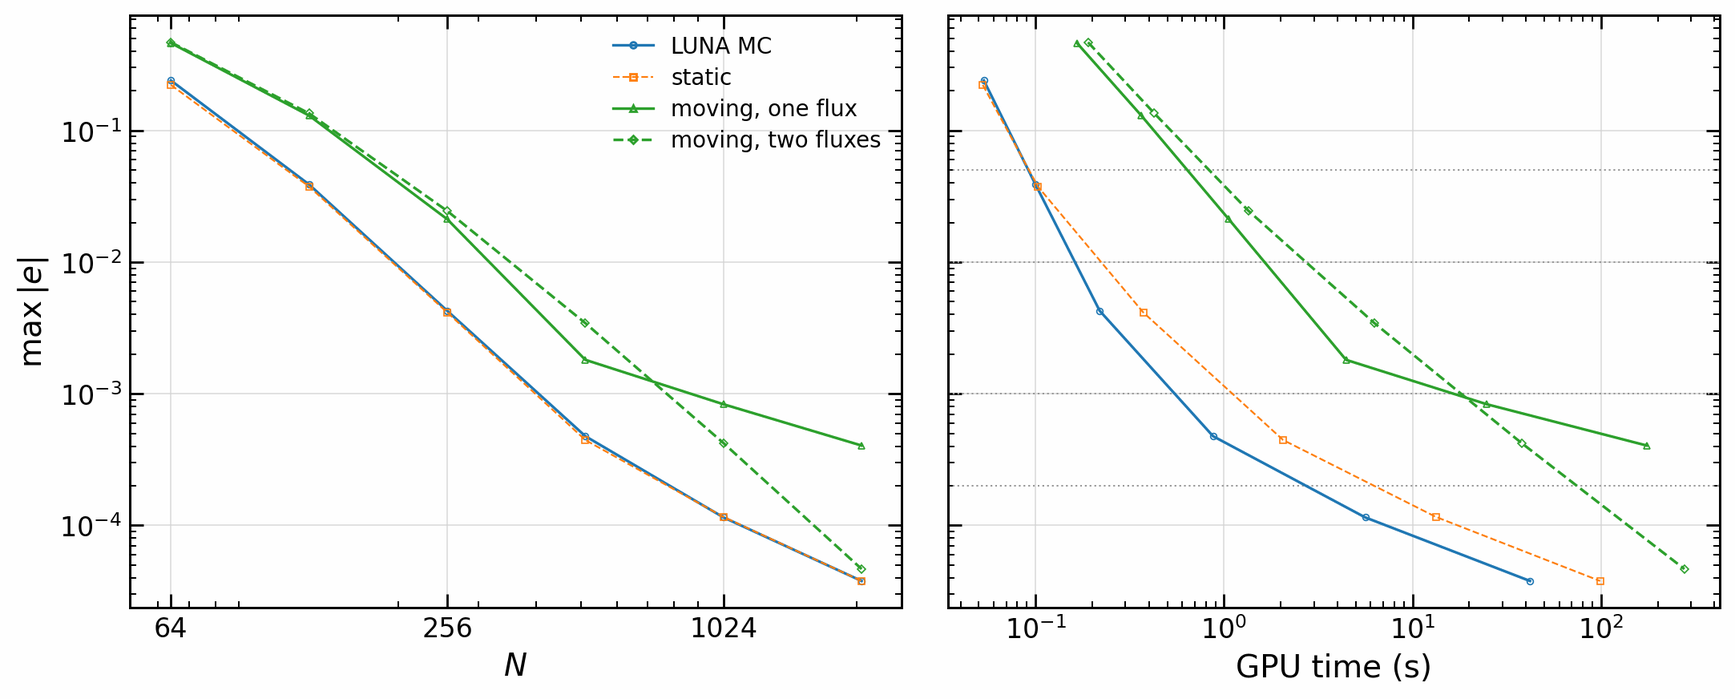
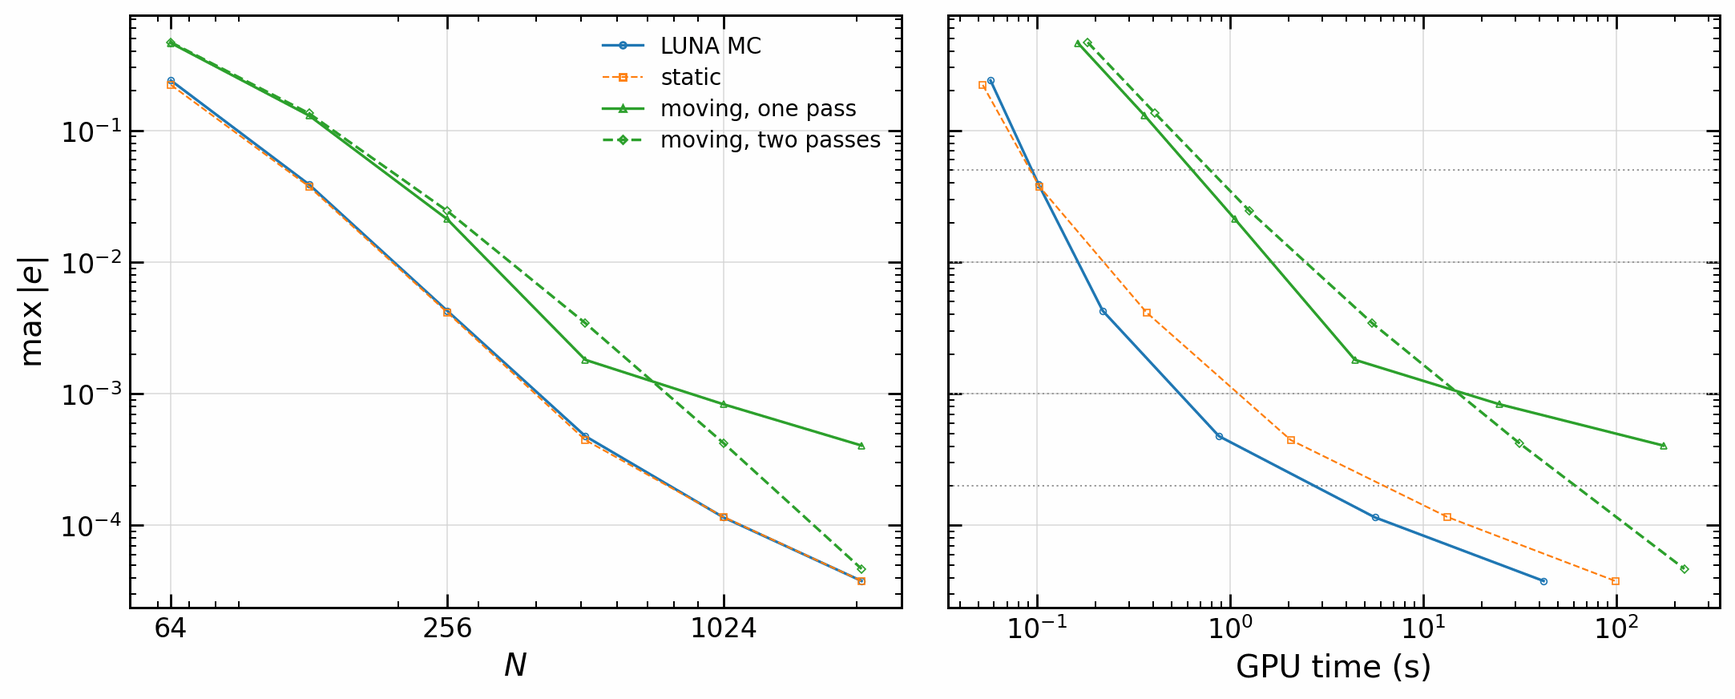
KH density figure against LUNA, the rerun on two passes; README up to date, roadmap, powers as superscripts

diff --git a/scripts/make_figures.py b/scripts/make_figures.py
@@ -6,6 +6,7 @@ Run with LUNA's environment: LUNA's src on PYTHONPATH (exact Riemann and Sedov-T
 Data paths, each an environment variable, none of them in this repository:
 
     VORONOI_RUNS               voronoi-cpp checkout with the build-* run directories
+    KH_TABLE, KH_FIELDS        the KH table and the density fields, default under VORONOI_RUNS
     LUNA_REFERENCE_SOLUTIONS   luna-reference-solutions at 99a52d0 (sha256 checked against its MANIFEST.json)
     LUNA_CPP_FIGURES           output directory, default docs/figures next to this script's parent
 
@@ -29,6 +30,7 @@ import numpy as np
 from matplotlib.path import Path
 from matplotlib.patches import ConnectionPatch, Rectangle
 from PIL import Image
+from scipy.spatial import cKDTree
 
 matplotlib.use("Agg")
 import matplotlib.pyplot as plt  # noqa: E402
@@ -45,7 +47,8 @@ FINE = f"{RUNS}/build-1d/runs/refs"          # the references of the L1 table: L
 MATRIX = f"{RUNS}/build-1ddiag/runs_m/matrix.json"
 WIDE_CPU = f"{RUNS}/build-1ddiag/runs_mc"
 VORTEX_LOGS = f"{RUNS}/build-1ddiag/logs"
-KH = f"{RUNS}/build-2d/runs/kh_table.md"
+KH = os.environ.get("KH_TABLE", f"{RUNS}/build-2d/runs/kh_table.md")
+KH_FIELDS = os.environ.get("KH_FIELDS", f"{RUNS}/build-2d/runs")  # field_* of dim2d_a100.sh khfield
 SEDOV = f"{RUNS}/build-limiters/sedov"
 SEDOV_L1 = f"{RUNS}/build-limiters/sedov_l1.json"
 SEDOV_LADDER = f"{RUNS}/build-metric"
@@ -74,6 +77,8 @@ TEXTS, BOXES = [], []  # panel labels and box letters, zoom boxes, of the figure
 FAILED = []  # (figure, what) of every overlap
 WIDTH = FIGSIZE[0] * 2  # every figure
 LEGEND = dict(loc="upper right", fontsize=LABEL)
+KH_WINDOW = ((0.27, 0.57), (0.11, 0.41))  # the roll-up of the zoom panels
+DIFF = {}
 
 
 def save(fig, name):
@@ -506,8 +511,68 @@ def fig_kh():
     a.set_xlabel(r"$N$")
     a.set_ylabel(r"$\max\,|e|$")
     b.set_xlabel("GPU time (s)")
-    a.legend(handles=[key("luna", "LUNA MC", True), key("static", "static", True), key("moving", "moving, one flux", True), key("two", "moving, two fluxes", True)], **LEGEND)
+    a.legend(handles=[key("luna", "LUNA MC", True), key("static", "static", True), key("moving", "moving, one pass", True), key("two", "moving, two passes", True)], **LEGEND)
     save(fig, "kh_2d")
+
+
+def kh_field(kind, t, n, m):
+    """Density on an m x m lattice, [x, y]: LUNA's cells, or the Voronoi cells of a run by nearest generator (periodic)."""
+    if kind == "luna":
+        rho = np.load(f"{KH_FIELDS}/field_luna_t{t}_{n}.npz")["rho"]
+        return rho if rho.shape[0] == m else rho.repeat(m // rho.shape[0], 0).repeat(m // rho.shape[0], 1)
+    rows = np.fromfile(f"{KH_FIELDS}/field_{kind}_t{t}_{n}.bin").reshape(-1, 7)
+    at = (np.arange(m) + 0.5) / m
+    x, y = np.meshgrid(at, at, indexing="ij")
+    return rows[cKDTree(rows[:, :2] % 1.0, boxsize=1.0).query(np.c_[x.ravel(), y.ravel()])[1], 5].reshape(m, m)
+
+
+def fig_kh_density():
+    """Density maps at two times, one colour scale; a zoom on a roll-up; the difference from LUNA at the finest N."""
+    n, fine = 1024, 2048
+    window = KH_WINDOW
+    fig, axes = plt.subplots(3, 4, figsize=(WIDTH, WIDTH * 0.76), gridspec_kw=dict(wspace=0.05, hspace=0.07))
+    names = (("luna", "LUNA MC"), ("static", "static"), ("moving", "moving"))
+    limit = 0.0
+    panels = "abcdefghijkl"
+    for r, t in enumerate(("1.0", "1.5")):
+        ref = kh_field("luna", t, fine, fine)
+        for c, (kind, name) in enumerate(names):
+            ax = axes[r, c]
+            rho = kh_field(kind, t, n, 2 * n if kind != "luna" else n)
+            image = ax.imshow(rho.T, origin="lower", extent=(0, 1, 0, 1), cmap="viridis", vmin=1, vmax=2, interpolation="nearest")
+            corner(ax, f"({panels[4 * r + c]}) {name}, $t = {t}$", y=0.97)
+            if r == 1:
+                axes[2, c].imshow(rho.T, origin="lower", extent=(0, 1, 0, 1), cmap="viridis", vmin=1, vmax=2, interpolation="nearest")
+                axes[2, c].set_xlim(*window[0])
+                axes[2, c].set_ylim(*window[1])
+                corner(axes[2, c], f"({panels[8 + c]}) {name}", y=0.97)
+                mark(ax, window[0], window[1], "")
+                to_fig = fig.transFigure.inverted()
+                for x, side in ((window[0][0], 0), (window[0][1], 1)):
+                    fig.add_artist(ConnectionPatch(xyA=(x, window[1][0]), coordsA=ax.transData, xyB=(side, 1), coordsB=axes[2, c].transAxes,
+                                                   color=EDGE, lw=0.6, clip_on=False, zorder=10))
+                    CONNECTORS.append((to_fig.transform(ax.transData.transform((x, window[1][0]))),
+                                       to_fig.transform(axes[2, c].transAxes.transform((side, 1)))))
+        moving = kh_field("moving", t, n, fine)
+        difference = moving - ref
+        limit = max(limit, float(np.percentile(np.abs(difference), 99.9)))
+        DIFF[t] = difference
+    for r, t in enumerate(("1.0", "1.5")):
+        ax = axes[r, 3]
+        delta = ax.imshow(DIFF[t].T, origin="lower", extent=(0, 1, 0, 1), cmap="RdBu_r", vmin=-limit, vmax=limit, interpolation="nearest")
+        corner(ax, f"({panels[4 * r + 3]}) moving $-$ LUNA {fine}", y=0.97)
+    bottom = axes[2, 3]
+    static = kh_field("static", "1.5", n, fine) - kh_field("luna", "1.5", fine, fine)
+    bottom.imshow(static.T, origin="lower", extent=(0, 1, 0, 1), cmap="RdBu_r", vmin=-limit, vmax=limit, interpolation="nearest")
+    corner(bottom, f"(l) static $-$ LUNA {fine}", y=0.97)
+    for ax in axes.flat:
+        ax.grid(False)
+        ax.set_xticks([])
+        ax.set_yticks([])
+        ax.minorticks_off()
+    fig.colorbar(image, ax=axes[:, :3].ravel().tolist(), location="bottom", fraction=0.03, pad=0.02, aspect=50, label=r"$\rho$")
+    fig.colorbar(delta, ax=axes[:, 3].ravel().tolist(), location="bottom", fraction=0.03, pad=0.02, aspect=16, label=r"$\Delta\rho$")
+    save(fig, "kh_2d_density")
 
 
 def fig_sedov():
@@ -623,7 +688,7 @@ def fig_throughput():
 
 
 FIGURES = {"sod": fig_sod, "shu_osher": fig_shu_osher, "woodward_colella": fig_woodward_colella, "convergence_1d": fig_convergence,
-           "time_to_target_1d": fig_time, "vortex_3d": fig_vortex, "kh_2d": fig_kh, "sedov_3d": fig_sedov, "throughput_scaling": fig_throughput}
+           "time_to_target_1d": fig_time, "vortex_3d": fig_vortex, "kh_2d": fig_kh, "kh_2d_density": fig_kh_density, "sedov_3d": fig_sedov, "throughput_scaling": fig_throughput}
 
 
 def main():

diff --git a/README.md b/README.md
@@ -4,7 +4,7 @@ Moving-mesh finite-volume hydro in Kokkos C++ on GPUs (CUDA, validated on an A10
 the same code for checks), on the exact Voronoi meshes of
 [voronoi-cpp](https://github.com/Ulli1991/voronoi-cpp), which it includes as a git submodule.
 
-MUSCL-Hancock with HLLC or HLL (on a moving mesh AREPO next generation's two flux passes), AREPO-style least-squares
+MUSCL-Hancock with HLLC or HLL on static meshes, AREPO next generation's two flux passes as the default on moving ones, AREPO-style least-squares
 gradients and mesh regularisation, on a static or moving mesh, bit-reproducible run to run, in 3D and 2D (periodic boxes) and 1D (with walls). On Sedov 3D the moving mesh is more
 accurate than the static mesh at the same resolution in 4.6x fewer steps (see "The hydro").
 
@@ -114,7 +114,7 @@ sbatch -o <logs>/hydro-%j.out scripts/hydro_a100.sh build-cuda <out> <mode> (see
 ```
 
 `hydro_sedov` (needs HDF5; on Raven `module load hdf5-serial`) runs a
-Sedov blast (1e51 erg, n = 1 cm^-3, 50 pc box, 1e4 yr) and writes HDF5
+Sedov blast (1e51 erg, n = 1 cm⁻³, 50 pc box, 1e4 yr) and writes HDF5
 snapshots. Measured on one A100, double, jittered points in Morton order,
 median of 40 steps. The 2.1M column is current (static job 31879405, moving jobs 31925156 and
 31925157, HLLC rows; the same code varies by about 10 % between GPU jobs). In the 16.8M
@@ -130,26 +130,34 @@ HLL and first-order rows are the earlier code (jobs 31699864, 31699865,
 | static mesh, MUSCL-Hancock HLL, per-face loop | 0.116 | 0.114 |
 | static mesh, first order HLLC, per-cell loop | 0.288 | 0.290 |
 | device memory, mesh + hydro (static, per-face, second order) | 2434 B/cell | 2371 B/cell (41.2 GB in use) |
-| device memory, moving mesh + hydro, two passes (per-face) | 2319 B/cell | 2319 B/cell (40.5 GB in use, whole run); `--precision=mixed` 2445 B/cell, does not fit at 256^3, see Limitations |
+| device memory, moving mesh + hydro, two passes (per-face) | 2319 B/cell | 2319 B/cell (40.5 GB in use, whole run); `--precision=mixed` 2445 B/cell, does not fit at 256³, see Limitations |
 | device memory, moving mesh + hydro, one pass (per-face) | 2298 B/cell | 2298 B/cell (40.1 GB in use, whole run); `--precision=mixed` 2334 B/cell (40.7 GB, job 31925336) |
 
-Sedov at 128^3 (job 31699863; the moving numbers of this paragraph are one pass), HLLC: shock radius 0.978 of the
+Sedov at 128³ (job 31699863; the moving numbers of this paragraph are one pass), HLLC: shock radius 0.978 of the
 Sedov-Taylor value at 1e4 yr, L1 density error 0.075 rho0 (first order:
 0.104); mass and energy conserved to 2e-16. On the moving mesh (jobs
 31700850-51): 354 steps instead of 1642, L1 density error 0.058 rho0, the
-same numbers with the whole box moving at 500 km/s; at 256^3 L1 0.034 in
+same numbers with the whole box moving at 500 km/s; at 256³ L1 0.034 in
 288 s of GPU time (job 31702077; now 176 s, job 31925157, two passes 230 s). These L1 values are sampled at
 the mesh generators, which flatters a moving mesh; the field L1 (the integral
 of |rho_h - rho| dV) is the fair norm and is what the test suite will report
 (research_notes/accuracy_score_exploration_2026-11-04.md). Details:
 research_notes/hydro_stage1_2026-10-31.md, hydro_stage3_2026-10-31.md. Field L1 of density, r < 1.5 R_s (one pass, two
-passes): 128^3 0.0629, 0.0648; 256^3 0.0369, 0.0377 (research_notes/two_pass_2026-11-05.md).
+passes): 128³ 0.0629, 0.0648; 256³ 0.0369, 0.0377 (research_notes/two_pass_2026-11-05.md).
 
 ### 2D (`hydro_kh2d`, `hydro::FiniteVolume<2>`)
 
-`hydro_kh2d <N> [--moving] [--integrator=one-pass|two-pass] [--bulk=<u>] ...` runs the smooth Kelvin-Helmholtz test of
-McNally, Lyra & Passy (2012). Results and the comparison with LUNA at the same N: research_notes/stage2_2d_2026-11-05.md;
-`scripts/dim2d_a100.sh` runs the ladders, `scripts/compare_kh.py` makes the tables.
+![Kelvin-Helmholtz density](docs/figures/kh_2d_density.png)
+
+Density of the smooth Kelvin-Helmholtz test of McNally, Lyra & Passy (2012), N = 1024, at t = 1.0 and 1.5, one colour scale:
+LUNA MC, static, moving (two passes, Voronoi cells rasterised by nearest generator on 2048²), with a zoom on one roll-up, and
+the differences from LUNA MC at N = 2048. All HLLC, FP64; LUNA Pallas, CFL 0.8; ours face limiter, per-face, LUNA's rule 0.8.
+One A100 at 1305 MHz, jobs 31952222 (t = 1.0), 31952223 (t = 1.5).
+
+`hydro_kh2d <N> [--moving] [--integrator=one-pass|two-pass] [--bulk=<u>] ...` runs this test.
+G cell updates/s at N = 2048 (job 31952221): LUNA 1.78, static 0.756, moving one pass 0.414, two passes 0.322; peak 693, 735 and
+749 B/cell for ours. GPU seconds to max |e| = 0.001: LUNA 0.55, static 1.1, moving 15. Details and the comparison with LUNA at the
+same N: research_notes/stage2_2d_2026-11-05.md; `scripts/dim2d_a100.sh` runs the ladders, `scripts/compare_kh.py` makes the tables.
 
 ### 1D (`hydro_1d`, `finite_volume_1d.hpp`)
 
@@ -165,7 +173,7 @@ AREPO next generation does without a face angle: a drift towards the
 density-displaced centroid when it is more than 0.75 cell radii away.
 
 G cell updates/s, one A100 40 GB at 1305 MHz (ravg1002, job 31917211, Sod,
-HLLC, 2000 steps, 200 at 2^24; hydro only is a static step, whole step a
+HLLC, 2000 steps, 200 at 2²⁴; hydro only is a static step, whole step a
 moving one at its defaults with the order check):
 
 | cells | 4,096 | 65,536 | 1,048,576 | 16,777,216 |
@@ -196,7 +204,7 @@ Woodward-Colella, t = 0.038, N = 2048, reflecting walls, shown from x = 0.4 (fla
 
 ![Field L1 by N](docs/figures/convergence_1d.png)
 
-Field L1 of the reconstructed field (`scripts/compare_1d.py`), against the exact solution on Sod, LUNA MC 2^21 cells on Shu-Osher, LUNA MC 2^20 cells on Woodward-Colella. Sod: moving ahead of LUNA in rho, 2-13 % over it in P. Shu-Osher: LUNA and static on [-5, 5]; moving on the domain [-15, 5] (norm on [-5, 5], N per length 10): LUNA's rule 0.4, job 31919016, default rule at 0.3, job 31920121, branch dim-1d-diag. Woodward-Colella: ahead of LUNA, with a stall near 3.4e-4 in rho. Jobs 31917206/8/10, 947946a.
+Field L1 of the reconstructed field (`scripts/compare_1d.py`), against the exact solution on Sod, LUNA MC 2²¹ cells on Shu-Osher, LUNA MC 2²⁰ cells on Woodward-Colella. Sod: moving ahead of LUNA in rho, 2-13 % over it in P. Shu-Osher: LUNA and static on [-5, 5]; moving on the domain [-15, 5] (norm on [-5, 5], N per length 10): LUNA's rule 0.4, job 31919016, default rule at 0.3, job 31920121, branch dim-1d-diag. Woodward-Colella: ahead of LUNA, with a stall near 3.4e-4 in rho. Jobs 31917206/8/10, 947946a.
 
 ![GPU time against field L1](docs/figures/time_to_target_1d.png)
 
@@ -208,11 +216,11 @@ Yee vortex in a 3D slab, 10 x 10 x 2.5, nx x nx x nx/4 cells, t = 10. L1 of cell
 
 ![2D Kelvin-Helmholtz](docs/figures/kh_2d.png)
 
-Kelvin-Helmholtz after McNally, Lyra & Passy (2012), N^2 cells, one A100 at 1305 MHz; e(t) = M / M_ref - 1 against their published reference curve, max over t <= 1.5, dotted lines the targets. LUNA and static lead at equal N, LUNA in GPU time; one-flux moving stalls near 4e-4, two fluxes recover. All HLLC, FP64; LUNA MC, Pallas, CFL 0.8; ours face limiter, per-face, LUNA's rule 0.8. Jobs 31922404/5/6, voronoi-cpp branch dim-2d: this hydro is not yet on luna-cpp main.
+Kelvin-Helmholtz after McNally, Lyra & Passy (2012), N² cells, one A100 at 1305 MHz; e(t) = M / M_ref - 1 against their published reference curve, max over t <= 1.5, dotted lines the targets. LUNA and static lead at equal N, LUNA in GPU time; moving with one pass stalls near 4e-4, two passes recover. All HLLC, FP64; LUNA MC, Pallas, CFL 0.8; ours face limiter, per-face, LUNA's rule 0.8. Jobs 31952216, 31952221.
 
 ![Sedov 3D](docs/figures/sedov_3d.png)
 
-Sedov 3D, 1e51 erg, n = 1 cm^-3, 50 pc box, 1e4 yr: a shock test that cannot rank schemes, order below 1 for every code (0.66 LUNA minmod, 0.78 moving, n = 128 to 256). Left: volume-weighted shells at 128^3 with zooms on the shell and the shock front, markers are shells, not cells, branch dim-limiters, jobs 31918879 (moving), 31918880 (static), 31918732 (LUNA). Right: field L1 over r < 1.5 R_s of the piecewise-constant field, not sampled at generators; older code, jobs 31879294, 31879807 (LUNA minmod 128-448, moving 64-256, 256 with the per-cell loop, static 64-192), LUNA MC 128 and 256 from dim-limiters. Ours: HLLC, jittered, Courant 0.3, face limiter; moving is one pass in all these runs, older than the two-pass default.
+Sedov 3D, 1e51 erg, n = 1 cm⁻³, 50 pc box, 1e4 yr: a shock test that cannot rank schemes, order below 1 for every code (0.66 LUNA minmod, 0.78 moving, n = 128 to 256). Left: volume-weighted shells at 128³ with zooms on the shell and the shock front, markers are shells, not cells, branch dim-limiters, jobs 31918879 (moving), 31918880 (static), 31918732 (LUNA). Right: field L1 over r < 1.5 R_s of the piecewise-constant field, not sampled at generators; older code, jobs 31879294, 31879807 (LUNA minmod 128-448, moving 64-256, 256 with the per-cell loop, static 64-192), LUNA MC 128 and 256 from dim-limiters. Ours: HLLC, jittered, Courant 0.3, face limiter; moving is one pass in all these runs, older than the two-pass default.
 
 Throughput against resolution on one A100, 32³ to 256³, Sedov 3D, 1095 MHz, double, HLLC, 40 steps, with LUNA (MC, Pallas, FP64; median of the perf lines of three rounds) and peak memory. Hydro is flat from 96³ to 256³; below 64³ the fixed cost per step dominates. Job 31928911, mesh pin 0b433f0.
 
@@ -220,36 +228,40 @@ Throughput against resolution on one A100, 32³ to 256³, Sedov 3D, 1095 MHz, do
 
 ## Limitations and open items
 
-- The hydro step is not yet at its target (~0.3 G cell updates/s): on the A100 at 128^3 double precision runs at
-  0.152 G cell updates/s static, its hydro part at 0.140 G cell updates/s on a moving mesh (one pass), the whole moving step at
-  0.084 G cell updates/s with one pass, 0.066 with two. Compile-time precision options (`--precision=`, default double): mixed +10 %, low +19 % on the
+- The hydro step is not yet at its target (0.3 G cell updates/s static, 0.15 G the whole two-pass step): on the A100 at 128³
+  double precision runs at 0.152 G cell updates/s static, its hydro part at 0.140 G cell updates/s on a moving mesh (one pass), the
+  whole moving step at 0.084 G cell updates/s with one pass, 0.066 with two. Roofline at 1095 MHz (luna-cpp 28a647d, voronoi-cpp
+  0b433f0, older than this tree): the step sits at about 1.9 flop/B, at 45 % of the sustained 1.40 TB/s and 16 % of the FP64 peak;
+  only `update` is at the bandwidth roof, the gradient sweep is latency-bound. Bytes alone would allow 0.34 G static and 0.14 G for
+  the whole two-pass step, which achieved 0.059 there. Compile-time precision options (`--precision=`, default double): mixed +10 %, low +19 % on the
   hydro static, +4 % / +7 % on the whole moving step with one pass (research_notes/hydro_speed_2026-11-04.md).
-- Moving 256^3 on a 40 GB A100: two passes in double fit (2319 B/cell, 40484 of 42405 MB in use); with `--precision=mixed`
+- Moving 256³ on a 40 GB A100: two passes in double fit (2319 B/cell, 40484 of 42405 MB in use); with `--precision=mixed`
   they do not (2445 B/cell, about 42.6 GB needed): use `--integrator=one-pass` there, or `--precision=grad32`
   (2255 B/cell). The double area and centroid arrays stay beside mixed's float face rows.
 - On the CPU (gcc's default FP contraction) some hydro modes differ from the GPU in the last bits; the A100 runs are
   bit-identical run to run.
 - Periodic boxes only in 3D and 2D; only 1D has walls.
 - 1D moving mesh: inflow needs cells to be added at the wall, see [issue #3](https://github.com/Ulli1991/luna-cpp/issues/3).
-- 1D moving mesh: the error of Woodward-Colella stops falling near N = 2^15, at every Courant number tried
+- 1D moving mesh: the error of Woodward-Colella stops falling near N = 2¹⁵, at every Courant number tried
   (research_notes/stage1_1d_2026-11-04.md).
 
 ## Roadmap
 
-1. Hydro speed, first round done: 0.107 -> 0.152 G cell updates/s static double, 0.056 -> 0.073 for the whole moving step (one pass). The
-   remaining limit is memory waits in the gradient sweep; sliced lists, 16-bit offsets, tiles and a face-major update
-   did not help (research_notes/hydro_speed_2026-11-04.md).
-2. Multi-GPU hydro, on the mesh's domain decomposition and ghost layers (voronoi-cpp).
-3. Refinement and derefinement: conservative remap from the volumes, on the mesh's split and merge.
-4. Self-gravity by multigrid, after the hydro suite passes at speed, starting from LUNA's gravity solvers (same author;
-   multigrid with coarse-grid gather): V-cycles warm-started from the previous step's potential, aiming at 2-4
-   V-cycles per step, so the solve runs at full GPU speed. Options: an auxiliary Cartesian grid (deposit, solve,
-   interpolate) or multigrid on the Voronoi mesh itself with gravity as face fluxes. Coarse levels are inefficient on
-   GPUs (too little work per launch), so they can run on the host CPUs: fine levels on the GPU, levels below a size
-   threshold on the CPU, one small transfer each way per V-cycle
-   (research_notes/multigrid_moving_mesh_literature_2026-11-02.md).
+Done: 3D, 2D and 1D hydro on the exact mesh, two passes as the default on moving meshes, a first round of hydro speed
+(0.107 -> 0.152 G cell updates/s static).
 
-Every test in the suite reports accuracy per cost: GPU-seconds to a target error at 2-3 resolutions.
+1. `grad32` as the default.
+2. Inflow that adds cells ([#3](https://github.com/Ulli1991/luna-cpp/issues/3)), the 1D soft launch of refinement.
+3. Hydro speed: target 0.3 G cell updates/s static, 0.15 G the whole two-pass step.
+4. A standing 3D test suite with LUNA coverage ([#7](https://github.com/Ulli1991/luna-cpp/issues/7)), including a test that doesn't favour lattices.
+5. Time integration study ([#1](https://github.com/Ulli1991/luna-cpp/issues/1)), accuracy scorecard.
+6. Local time stepping from AREPO-ng ([#9](https://github.com/Ulli1991/luna-cpp/issues/9)), a CPU path for few active cells ([#10](https://github.com/Ulli1991/luna-cpp/issues/10)).
+7. Multi-GPU.
+8. Refinement.
+9. Multigrid self-gravity.
+10. Autodiff in C++ with Enzyme ([#12](https://github.com/Ulli1991/luna-cpp/issues/12)).
+
+Open bugs: a forced rebuild beside two passes runs out of memory at 256³ ([#11](https://github.com/Ulli1991/luna-cpp/issues/11)).
 
 ## Repository layout
 

diff --git a/research_notes/stage2_2d_2026-11-05.md b/research_notes/stage2_2d_2026-11-05.md
@@ -1,9 +1,8 @@
 # Stage 2D: hydro, Kelvin-Helmholtz (2026-11-05)
 
-Measured on voronoi-cpp branch dim-2d, before the split; ported here by diff, see "The port" at the end. Two flux
-computations there were an option of their own (`--two-flux`, order 1, per-face, 2D); here they are the integrator of
-research_notes/two_pass_2026-11-05.md, the default on moving meshes at order 1 as in 3D. "One flux" and "two fluxes" below
-are `--integrator=one-pass` and `two-pass`. The tables below were measured with the code of dim-2d.
+First measured on voronoi-cpp branch dim-2d, before the split; ported here by diff, see "The port" at the end. "One flux" and
+"two fluxes" below are `--integrator=one-pass` and `two-pass`. The KH tables are the rerun on this code (below); the diagnosis
+paragraphs and the bulk sentence about 2048 keep their dim-2d jobs.
 
 The mesh's part of this stage is in voronoi-cpp, `research_notes/mesh_2d_2026-11-05.md`.
 
@@ -30,33 +29,40 @@ setup on a lattice aligned with the flow is the best case for a fixed grid.
 Later measurement corrects the N = 128 reading above: two fluxes do nothing at N <= 512, and decide at N >= 1024 (below).
 
 KH results, all LUNA 'MC' (LIMITER=1), Pallas, HLLC, FP64, CFL 0.8; ours HLLC, face-centroid limiter, per-face, LUNA's rule 0.8,
-FP64; clock 1305 MHz (jobs 31922404 ravg1091, 31922405 and 31922406 ravg1119). Full table: build-2d/runs/kh_table.md, from
-scripts/compare_kh.py. Reference: Pencil 4096^2 M(t) (McNally fig. 4, digitised); AthenaK PPMX 4096^2 and LUNA MC 4096^2 agree
+FP64; clock 1305 MHz (jobs 31952216, 31952221 ravg1202, 31952224 ravg1123). Table from scripts/compare_kh.py. Reference: Pencil 4096^2 M(t) (McNally fig. 4, digitised); AthenaK PPMX 4096^2 and LUNA MC 4096^2 agree
 with it to 2.1e-5 and 1.1e-5, so errors below ~2e-5 are not resolved by the reference.
 
 max |M / M_ref - 1|, N = 64 .. 2048:
 | luna | 0.24 | 0.0389 | 0.00427 | 0.000476 | 0.000115 | 3.78e-05 |
 | static | 0.222 | 0.0375 | 0.00415 | 0.000445 | 0.000116 | 3.78e-05 |
 | moving, one flux | 0.462 | 0.13 | 0.0212 | 0.00181 | 0.000832 | 0.000404 |
-| moving, two fluxes | 0.468 | 0.135 | 0.0245 | 0.00344 | 0.000422 | 4.66e-05 |
+| moving, two fluxes | 0.468 | 0.135 | 0.0245 | 0.00344 | 0.000422 | 4.67e-05 |
 
 One flux stalls at first order from N = 1024; two fluxes keep going and meet the lattice at 2048. Sound wave on a moving
 mesh jittered by 0.4: order 1.22 with one flux, 1.86 with two.
 
 GPU seconds to max |e| = 0.05 / 0.01 / 0.001 / 0.0002:
-| luna | 0.092 | 0.16 | 0.55 | 2.7 |
-| luna, bulk 5 | 0.18 | 0.33 | 1.3 | 7.6 |
-| static | 0.092 | 0.22 | 1.1 | 6.2 |
-| static, bulk 5 | 0.19 | 0.48 | 2.7 | 18 |
+| luna | 0.094 | 0.16 | 0.55 | 2.7 |
+| luna, bulk 5 | 0.17 | 0.33 | 1.3 | 7.6 |
+| static | 0.093 | 0.22 | 1.1 | 6.2 |
+| static, bulk 5 | 0.19 | 0.47 | 2.7 | 18 |
 | moving, one flux | 0.64 | 1.6 | 16.5 | not reached |
-| moving, two fluxes | 0.84 | 2.7 | 18 | 74 |
+| moving, two fluxes | 0.79 | 2.5 | 15 | 61 |
 
 Bulk velocity: moving errors and times do not change with bulk 1 or 5 (Mach up to about 2.5): the same to the 3 digits of the table at every N.
 LUNA's cost grows only by the time step and its error by 1.2-1.4x at N = 512-1024. So at bulk 5 LUNA still wins, 12.5x (one flux) and 14x (two) at 0.001.
 Bulk 5 two fluxes was not run at 2048 ("not reached" in the table means that, not a failure).
 
-Throughput at N = 2048, unfenced, one job: LUNA 1778, static 755, moving one flux 414, two fluxes 262 M cell updates/s; peak 224
-(LUNA), 693, 735, 862 B/cell. Fenced, N = 1024, job 31919802: static hydro 694; moving: hydro 716, mesh 758, whole 368.
+Throughput at N = 2048, unfenced, one job (31952221): LUNA 1777, static 756, moving one flux 414, two fluxes 322 M cell updates/s; peak
+693, 735, 749 B/cell for ours. dim-2d's own two-flux step made 262 at 862 B/cell: the merged integrator is faster and smaller.
 
 Field L1 of rho at t = 1.5 on 128^2 blocks integrating the actual cells, against AthenaK: N = 2048 static 2.5e-5, one flux 7.8e-5,
-two fluxes 2.6e-5.
+two fluxes 2.7e-5.
+
+## The port
+
+By diff from dim-2d, on luna-cpp main. dim-2d's `step_two_flux` is gone: the 2D step is `Integrator::two_pass`, one integrator in
+every dimension. Sound wave on the moving mesh jittered by 0.4, order 1.86 and KH max |e| as before, to the digits shown. `set_step_rule`
+stays. A face of zero size carries no flux in every dimension and both integrators (issue #6, voronoi-cpp c0b405b); hydro bits at
+128^3 equal the tree before on all five paths (job 31952283), static speed the same and moving 0.6 % faster (31952284, one job).
+`hydro2d` runs Sod and Noh with the default integrator only, and Noh not under sanitizers: the long run.

diff --git a/TESTING.md b/TESTING.md
@@ -28,7 +28,7 @@ CPU times: OpenMP build (gcc 15), one thread of a Raven login node (Xeon Platinu
 
 ## Bit hashes
 
-`scripts/hydro_speed_a100.sh` mode `bits` (MAIN and FIX: two CUDA build directories) runs five paths at 128^3, 50
+`scripts/hydro_speed_a100.sh` mode `bits` (MAIN and FIX: two CUDA build directories) runs five paths at 128³, 50
 steps: static, moving, order 0, per-cell moving, HLL moving. `scripts/two_pass_a100.sh` mode `bits` does the same with the
 one-pass runs of a tree from before two passes against `--integrator=one-pass`, and runs two passes twice. `scripts/snapshot_hash.sh` prints hashes of the final U, x
 and volume. Two builds of the same hydro and mesh must give equal hashes. `hydro_1d` prints a hash of its final state
@@ -40,7 +40,7 @@ and positions, the same in every run.
 sound-wave order in cell averages over the actual polygons, a Galilean blast; Sod and Noh with the default integrator.
 
 KH: `scripts/dim2d_a100.sh kh <N...>` and `khbulk <u> <N...>`, one job per ladder, then
-`scripts/compare_kh.py <runs> <logs...>`: M(t) against the Pencil 4096^2 curve, field L1 on block averages of the actual
+`scripts/compare_kh.py <runs> <logs...>`: M(t) against the Pencil 4096² curve, field L1 on block averages of the actual
 cells, GPU time to a target error. Moving-mesh M is summed at cell centroids, where a cell's state belongs.
 
 ## The 1D tests against LUNA (not in CTest)
